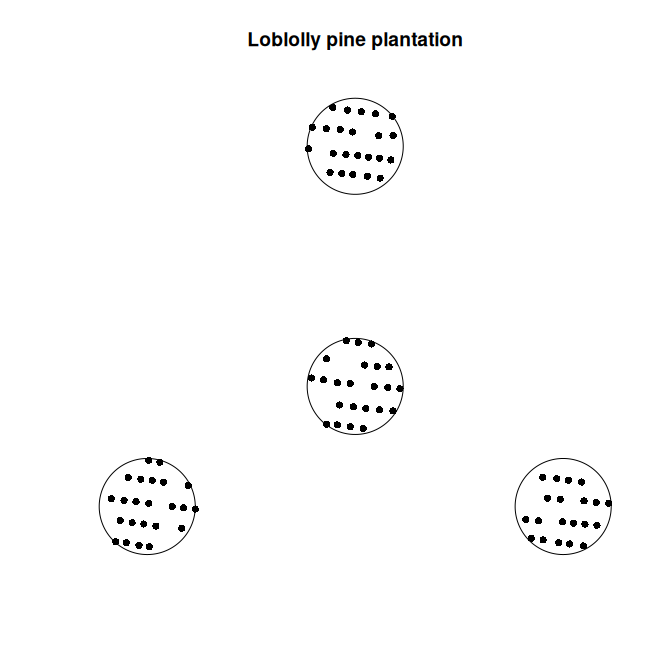
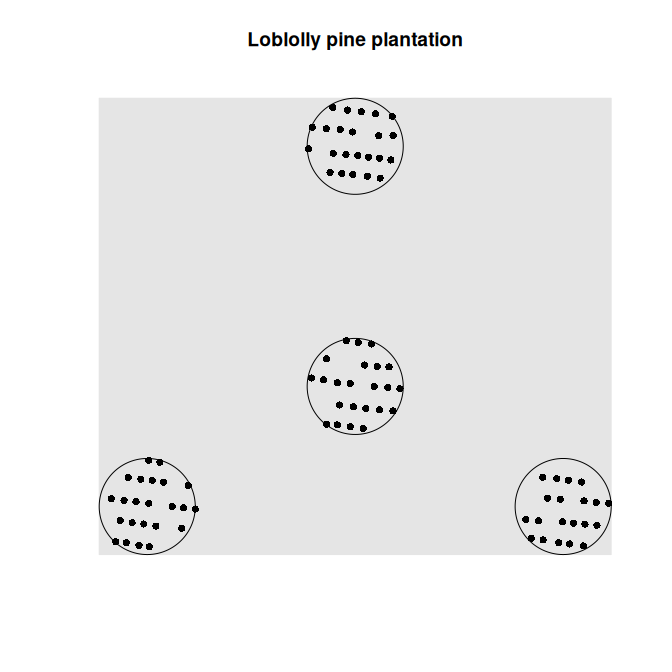
add usage examples [WIP]

diff --git a/README.md b/README.md
@@ -164,7 +164,7 @@ summary(X)
 #> Unit of length: 1 foot
 #> Fraction of frame area: 0.124
 
-plot(X, pch = 16, main = "Loblolly pine plantation")
+plot(X, pch = 16, background = "gray90", main = "Loblolly pine plantation")
 ```
 
 <img src="man/figures/README-spatstat-explore-1.png" alt="" width="70%" />
